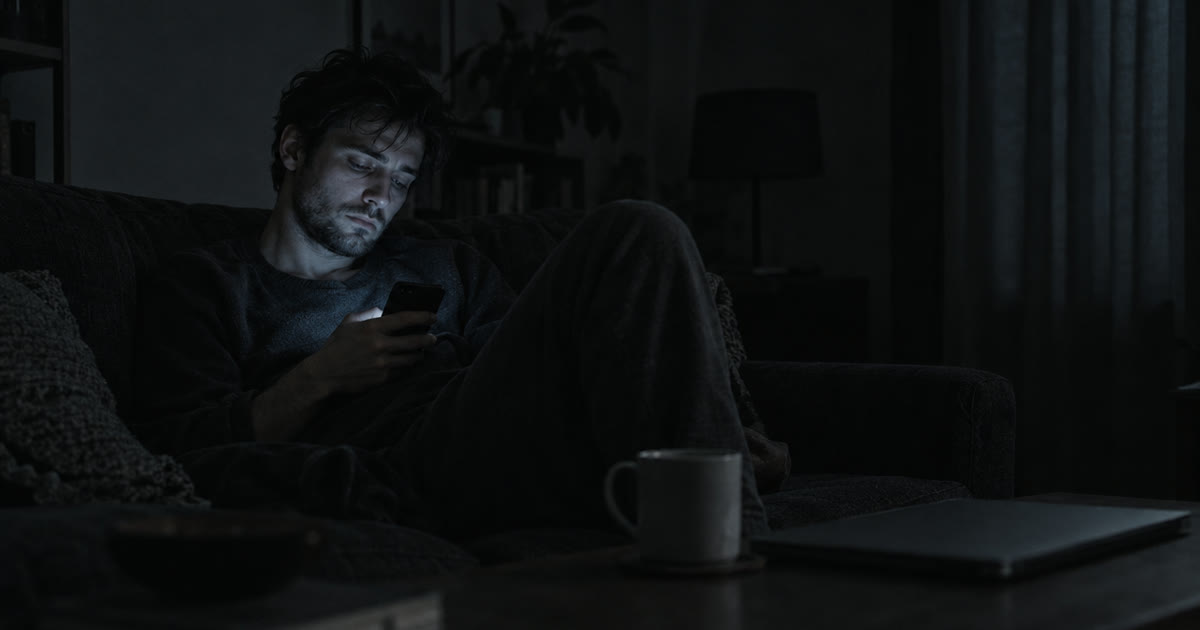
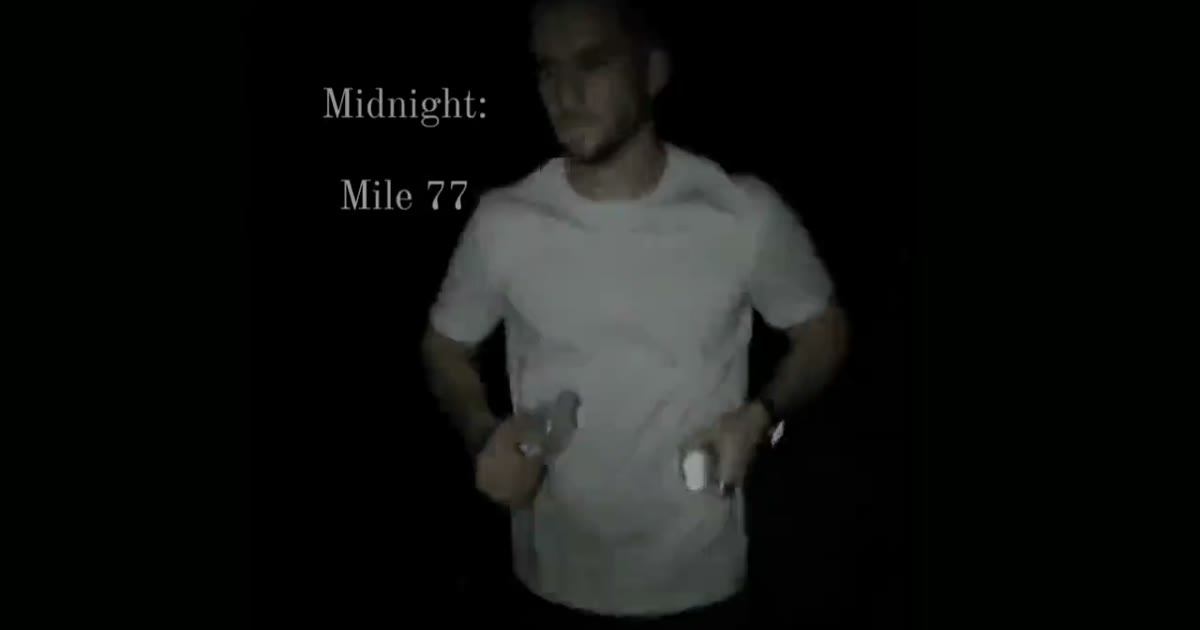
Workshop: dopamine as the problem, the loop, Brendan up front, real thumbnails
Generic generated images are gone. The problem section now says dopamine
is the problem, with the molecule drawn inline, and is followed by the
loop: sit down, reach for the phone, keep scrolling, put it off, repeat.
The four steps light in turn, and the one place the workshop steps in is
marked between 1 and 2 with the Off-Ramp's first move, close one exit.

Section labels are gone. "You do this" is "This is for you if". The
outcomes heading is "Your time is spent meaningfully."

Brendan's block is a still from his video with a play button and his
quote underneath, attributed "Brendan, client and good friend". No
header on it.

The episode cards carry the real YouTube thumbnails, self hosted, and a
still of Will from the episode 124 recording sits beside the podcast
heading. The feed script only refreshes the episode count now.

FAQ: dropped "What if I can't make that date?", added where it is (link
by email) and what to bring.

diff --git a/public/workshop/index.html b/public/workshop/index.html
@@ -88,6 +88,7 @@
   .btn-primary[disabled] { background: transparent; color: var(--faint); border-color: var(--border-strong); cursor: default; }
   .fine { font-size: 12px; color: var(--faint); line-height: 1.6; margin-top: 12px; max-width: 460px; }
 
+  .wrap > section:not(.hero) { margin-top: 64px; }
   .divider-lbl { color: var(--faint); font-size: 10px; letter-spacing: 0.2em; text-transform: uppercase; margin: 56px 0 28px; display: flex; align-items: center; gap: 12px; }
   .divider-lbl::before, .divider-lbl::after { content: ""; flex: 1; height: 1px; background: rgba(255, 255, 255, 0.09); }
 
@@ -250,7 +251,9 @@
   .rail { display: flex; gap: 12px; overflow-x: auto; scroll-snap-type: x mandatory; padding: 4px 0 16px; margin: 0 -20px; padding-left: 20px; padding-right: 20px; -webkit-overflow-scrolling: touch; scrollbar-width: thin; }
   .rail::-webkit-scrollbar { height: 6px; }
   .rail::-webkit-scrollbar-thumb { background: rgba(255,255,255,0.18); }
-  .ep { scroll-snap-align: start; flex: 0 0 230px; background: var(--surface); border: 1px solid var(--border); padding: 16px 16px 14px; text-decoration: none; display: flex; flex-direction: column; transition: border-color 140ms ease; }
+  .ep { scroll-snap-align: start; flex: 0 0 230px; background: var(--surface); border: 1px solid var(--border); padding: 0 0 14px; text-decoration: none; display: flex; flex-direction: column; transition: border-color 140ms ease; overflow: hidden; }
+  .ep .ep-img { width: 100%; aspect-ratio: 16 / 9; object-fit: cover; display: block; border-bottom: 1px solid var(--border); margin-bottom: 12px; }
+  .ep .ep-n, .ep .ep-t, .ep .ep-d { margin-left: 14px; margin-right: 14px; }
   .ep:hover { border-color: var(--accent); }
   .ep .ep-n { font-family: var(--font-display); font-weight: 900; font-size: 20px; color: var(--accent); line-height: 1; margin-bottom: 10px; }
   .ep .ep-t { font-size: 14px; font-weight: 600; color: #fff; line-height: 1.4; margin-bottom: 10px; flex: 1; }
@@ -263,6 +266,40 @@
   .quote { border: 1px solid var(--border); border-left: 2px solid var(--accent); background: var(--surface); padding: 20px 20px 18px; }
   .quote p { margin: 0; font-size: 14.5px; line-height: 1.65; color: var(--text); }
   .quote cite { display: block; margin-top: 12px; font-style: normal; font-size: 11px; letter-spacing: 0.14em; text-transform: uppercase; color: var(--faint); }
+
+  /* --- the molecule --- */
+  .mol { width: 100%; max-width: 300px; margin: 0 auto; display: block; }
+  .mol svg { width: 100%; height: auto; display: block; overflow: visible; }
+  .mol .cap { font-size: 11px; letter-spacing: 0.14em; text-transform: uppercase; color: var(--faint); text-align: center; margin-top: 10px; }
+
+  /* --- the loop: four steps lit in turn, and the one place the workshop steps in --- */
+  .loop { display: grid; grid-template-columns: 1fr; gap: 8px; align-items: center; margin-top: 30px; }
+  @media (min-width: 720px) { .loop { grid-template-columns: 1fr auto 1fr auto 1fr auto 1fr; gap: 10px; margin-top: 50px; } }
+  .lstep { position: relative; background: var(--surface); border: 1px solid var(--border); padding: 16px 14px; font-size: 14px; line-height: 1.4; color: var(--text); animation: lit 8s linear infinite; animation-delay: calc(var(--i) * 2s); }
+  .lstep .ln { display: block; font-family: var(--font-display); font-weight: 900; font-size: 20px; color: var(--accent); margin-bottom: 6px; line-height: 1; }
+  @keyframes lit { 0%, 22% { border-color: var(--accent); background: var(--accent-soft); } 26%, 100% { border-color: var(--border); background: var(--surface); } }
+  .larrow, .lcut { text-align: center; font-size: 22px; line-height: 1; color: var(--faint); position: relative; }
+  .larrow .h, .lcut .h { display: none; } .larrow .v, .lcut .v { display: inline; }
+  @media (min-width: 720px) { .larrow .h, .lcut .h { display: inline; } .larrow .v, .lcut .v { display: none; } }
+  .lcut { color: var(--accent); }
+  @media (min-width: 720px) { .lcut { align-self: stretch; display: flex; align-items: center; justify-content: center; } }
+  .lcut .lbl { display: block; font-size: 10px; letter-spacing: 0.14em; text-transform: uppercase; color: var(--accent); white-space: nowrap; margin-top: 4px; }
+  @media (min-width: 720px) { .lcut .lbl { position: absolute; left: 50%; transform: translateX(-50%); top: -26px; margin: 0; } }
+  .lback { text-align: center; font-size: 11px; letter-spacing: 0.14em; text-transform: uppercase; color: var(--faint); margin-top: 6px; }
+  @media (min-width: 720px) { .lback { grid-column: 1 / -1; } }
+  .lcall { max-width: 640px; margin: 22px auto 0; border: 1px solid rgba(71, 157, 194, 0.55); border-left: 3px solid var(--accent); background: var(--accent-soft); padding: 16px 18px; font-size: 14.5px; line-height: 1.65; color: var(--muted); }
+  .lcall b { color: #fff; font-weight: 600; }
+  @media (prefers-reduced-motion: reduce) { .lstep { animation: none; } .lstep[style*="--i:0"] { border-color: var(--accent); background: var(--accent-soft); } }
+
+  /* --- Brendan: the still, a play button, and the quote under it --- */
+  .testi-wrap { position: relative; max-width: 340px; margin: 0 auto; cursor: pointer; }
+  .play { position: absolute; inset: 0; margin: auto; width: 76px; height: 76px; border-radius: 50%; background: rgba(4, 11, 18, 0.62); border: 2px solid #fff; padding: 0; transition: transform 160ms ease, background 160ms ease; }
+  .play::after { content: ""; position: absolute; left: 50%; top: 50%; transform: translate(-38%, -50%); border-left: 24px solid #fff; border-top: 14px solid transparent; border-bottom: 14px solid transparent; }
+  .testi-wrap:hover .play { transform: scale(1.06); background: var(--accent); border-color: var(--accent); }
+  .testi-wrap.on .play { display: none; }
+  .bigq { max-width: 520px; margin: 22px auto 0; padding: 0; border: 0; text-align: center; }
+  .bigq p { margin: 0; font-family: var(--font-display); font-weight: 700; font-size: clamp(18px, 2.4vw, 22px); line-height: 1.45; color: #fff; }
+  .bigq cite { display: block; margin-top: 12px; font-style: normal; font-size: 11px; letter-spacing: 0.16em; text-transform: uppercase; color: var(--faint); }
 
 </style>
 
@@ -318,80 +355,113 @@ posthog.register({funnel_product: 'workshop_dopamine', funnel_page: 'landing'});
 </section>
 
 <!-- ================= THE PROBLEM ================= -->
-<div class="divider-lbl">The problem</div>
 <section class="with-img">
   <div>
-    <h2>Nothing you do feels like it counts.</h2>
-    <p class="body">You get through the day. Messages, the thing you watch, bed. None of it took anything out of you and none of it gave anything back.</p>
+    <h2>Dopamine is the problem.</h2>
+    <p class="body">It is the motivation molecule. It is what makes you want to do anything at all. And most of yours is being spent on things you never wanted to be motivated toward.</p>
   </div>
-  <img class="sect-img" src="img/morning.jpg" alt="A man sitting on the edge of his bed in the morning, staring at the floor" loading="lazy" />
+  <figure class="mol" aria-label="The dopamine molecule">
+    <svg viewBox="0 0 300 200" xmlns="http://www.w3.org/2000/svg" role="img" aria-label="Skeletal structure of dopamine: a benzene ring with two hydroxyl groups and an ethylamine chain">
+      <g fill="none" stroke="#479dc2" stroke-width="2.5" stroke-linecap="round" stroke-linejoin="round">
+        <polygon points="110,74 70,97 70,143 110,166 150,143 150,97"/>
+        <line x1="79" y1="103" x2="79" y2="137"/>
+        <line x1="106" y1="81" x2="79" y2="97" transform="translate(0,0)" opacity="0"/>
+        <line x1="116" y1="80" x2="143" y2="96" transform="translate(-5,6)"/>
+        <line x1="116" y1="160" x2="143" y2="144" transform="translate(-5,-6)"/>
+        <line x1="70" y1="97" x2="38" y2="79"/>
+        <line x1="70" y1="143" x2="38" y2="161"/>
+        <polyline points="150,97 190,74 230,97 270,74"/>
+      </g>
+      <g fill="#fff" font-family="'Space Grotesk',sans-serif" font-size="16" font-weight="600">
+        <text x="30" y="75" text-anchor="end">HO</text>
+        <text x="30" y="170" text-anchor="end">HO</text>
+        <text x="276" y="79">NH<tspan font-size="11" dy="4">2</tspan></text>
+      </g>
+    </svg>
+    <figcaption class="cap">Dopamine &middot; C<sub>8</sub>H<sub>11</sub>NO<sub>2</sub></figcaption>
+  </figure>
+</section>
+<section>
+  <h2 style="text-align:center">Here is what that looks like.</h2>
+  <div class="loop" aria-label="The loop: sit down, reach for phone, keep scrolling, put it off, repeat">
+    <div class="lstep" style="--i:0"><span class="ln">1</span>You sit down to do something</div>
+    <div class="lcut"><span class="h">&rarr;</span><span class="v">&darr;</span><span class="lbl">We step in here</span></div>
+    <div class="lstep" style="--i:1"><span class="ln">2</span>You reach for your phone</div>
+    <div class="larrow"><span class="h">&rarr;</span><span class="v">&darr;</span></div>
+    <div class="lstep" style="--i:2"><span class="ln">3</span>You keep scrolling</div>
+    <div class="larrow"><span class="h">&rarr;</span><span class="v">&darr;</span></div>
+    <div class="lstep" style="--i:3"><span class="ln">4</span>You put the task off</div>
+    <div class="lback">&#8635; Same thing tomorrow</div>
+  </div>
+  <div class="lcall"><b>The Dopamine Off-Ramp starts between 1 and 2.</b> Close one exit: one rule for where the phone lives, decided once, so it is out of reach when you sit down. The pull still shows up. It stops winning every time.</div>
 </section>
 
-<!-- ================= YOU DO THIS ================= -->
-<div class="divider-lbl">Be honest</div>
-<section class="with-img flip">
-  <div>
-    <h2>You do this.</h2>
-    <ul class="youdo">
-      <li>You open your phone to check one thing and look up forty minutes later.</li>
-      <li>There is something you have been "about to start" for over a year.</li>
-      <li>You are more tired after a day of doing nothing than after a day of work.</li>
-      <li>You know exactly what you would tell a friend to do. You do not do it.</li>
-      <li>You have deleted the apps before. They came back.</li>
-      <li>You say tomorrow, and you mean it every time.</li>
-    </ul>
-    <p class="body" style="margin-top:18px"><b>Sound familiar?</b></p>
-  </div>
-  <img class="sect-img" src="img/doing-nothing.jpg" alt="A man slumped on a couch in a dark room, lit only by his phone" loading="lazy" />
+<!-- ================= WHO THIS IS FOR ================= -->
+<section style="max-width:620px;margin:64px auto 0">
+  <h2>This is for you if</h2>
+  <ul class="youdo">
+    <li>You open your phone to check one thing and look up forty minutes later.</li>
+    <li>There is something you have been "about to start" for over a year.</li>
+    <li>You are more tired after a day of doing nothing than after a day of work.</li>
+    <li>You know exactly what you would tell a friend to do. You do not do it.</li>
+    <li>You have deleted the apps before. They came back.</li>
+    <li>You say tomorrow, and you mean it every time.</li>
+  </ul>
+  <p class="body" style="margin-top:18px"><b>Sound familiar?</b></p>
 </section>
 
 <!-- ================= WHERE YOU COULD BE ================= -->
-<div class="divider-lbl">Three months from now</div>
-<section class="with-img">
-  <div>
-    <h2>The day counted.</h2>
-    <ul class="checks">
-      <li>You start things without an hour of talking yourself into it</li>
-      <li>The phone stops deciding how your day goes</li>
-      <li>The things you said you would do this year are getting done</li>
-      <li>You go to bed knowing the day was yours</li>
-    </ul>
-    <div style="margin-top:26px"><button class="btn-primary js-buy" onclick="openReg('middle')">Save my spot</button></div>
-  </div>
-  <img class="sect-img" src="img/absorbed.jpg" alt="A man working at a desk at night, absorbed in what he is doing" loading="lazy" />
+<section class="centered">
+  <h2>Your time is spent meaningfully.</h2>
+  <ul class="checks" style="max-width:480px;margin:0 auto;text-align:left">
+    <li>You start things without an hour of talking yourself into it</li>
+    <li>The phone stops deciding how your day goes</li>
+    <li>The things you said you would do this year are getting done</li>
+    <li>You go to bed knowing the day was yours</li>
+  </ul>
+  <div style="margin-top:28px"><button class="btn-primary js-buy" onclick="openReg('middle')">Save my spot</button></div>
 </section>
 
 <!-- ================= PROOF ================= -->
-<div class="divider-lbl">Proof</div>
 <section class="centered">
-  <h2>Brendan, six weeks in.</h2>
-  <video class="testi" src="img/testimonial.mp4" poster="img/testimonial-poster.jpg" controls preload="none" playsinline></video>
+  <div class="testi-wrap" id="testi" onclick="playTesti()">
+    <video class="testi" src="img/testimonial.mp4" poster="img/testimonial-poster.jpg" preload="none" playsinline></video>
+    <button class="play" type="button" aria-label="Play Brendan's video"></button>
+  </div>
+  <blockquote class="bigq"><p>"He doesn't get upset with you or show any sort of frustration or judgment when you make a mistake. He says, okay, well, what can we do next?"</p><cite>Brendan, client and good friend</cite></blockquote>
 
-  <h2 style="margin-top:56px">I have been taking this apart in public every week for over two years.</h2>
-  <div class="pod-head">
+</section>
+<section class="with-img flip" style="margin-top:60px">
+  <div>
+    <h2>I have been taking this apart in public every week for over two years.</h2>
+    <div class="pod-head" style="justify-content:flex-start">
     <div class="pod-stat">123<span>Episodes</span></div>
     <div class="pod-stat">2024<span>Every week since</span></div>
     <div class="pod-stat">1:1<span>Clients each week</span></div>
   </div>
+  </div>
+  <img class="sect-img" src="img/will-podcast.jpg" alt="William recording The Willpower Podcast" loading="lazy" />
+</section>
+<section class="centered" style="margin-top:28px">
   <div class="rail" id="ep-rail">
-    <a class="ep" href="https://podcasters.spotify.com/pod/show/william-mulvaney/episodes/124--I-Did-a-10-Day-Silent-Retreat--Heres-What-Science-Says-About-Meditation-e3qsda0" target="_blank" rel="noopener"><div class="ep-n">#124</div><div class="ep-t">I Did a 10-Day Silent Retreat. Here's What Science Says About Meditation</div><div class="ep-d">Oct 2026</div></a>
-    <a class="ep" href="https://podcasters.spotify.com/pod/show/william-mulvaney/episodes/123--Science-Says-Your-Gratitude-List-Is-Wasting-Your-Time-e3qgf4b" target="_blank" rel="noopener"><div class="ep-n">#123</div><div class="ep-t">Science Says Your Gratitude List Is Wasting Your Time</div><div class="ep-d">Oct 2026</div></a>
-    <a class="ep" href="https://podcasters.spotify.com/pod/show/william-mulvaney/episodes/122--Stop-Quitting-with-this-Ancient-Japanese-Concept-e3q3h5u" target="_blank" rel="noopener"><div class="ep-n">#122</div><div class="ep-t">Stop Quitting with this Ancient Japanese Concept</div><div class="ep-d">Oct 2026</div></a>
-    <a class="ep" href="https://podcasters.spotify.com/pod/show/william-mulvaney/episodes/121--28-minutes-to-build-a-gym-routine-that-finally-sticks-e3pl22m" target="_blank" rel="noopener"><div class="ep-n">#121</div><div class="ep-t">28 minutes to build a gym routine that finally sticks</div><div class="ep-d">Sep 2026</div></a>
-    <a class="ep" href="https://podcasters.spotify.com/pod/show/william-mulvaney/episodes/120--Produce-like-the-greats--starting-with-10-minutes-today-e3p9prc" target="_blank" rel="noopener"><div class="ep-n">#120</div><div class="ep-t">Produce like the greats, starting with 10 minutes today</div><div class="ep-d">Sep 2026</div></a>
-    <a class="ep" href="https://podcasters.spotify.com/pod/show/william-mulvaney/episodes/118--The-secret-to-personal-growth-in-2026-e3ojroo" target="_blank" rel="noopener"><div class="ep-n">#118</div><div class="ep-t">The secret to "personal growth" in 2026</div><div class="ep-d">Sep 2026</div></a>
-    <a class="ep" href="https://podcasters.spotify.com/pod/show/william-mulvaney/episodes/114--Mental-Trojan-Horses-are-destroying-your-willpower--Heres-what-you-can-do-about-it-e3naodl" target="_blank" rel="noopener"><div class="ep-n">#114</div><div class="ep-t">Mental Trojan Horses are destroying your willpower</div><div class="ep-d">Aug 2026</div></a>
-    <a class="ep" href="https://podcasters.spotify.com/pod/show/william-mulvaney/episodes/111--If-your-motivation-comes-from-screens-and-stimulants--listen-to-this-e3mdgin" target="_blank" rel="noopener"><div class="ep-n">#111</div><div class="ep-t">If your motivation comes from screens and stimulants, listen to this</div><div class="ep-d">Jul 2026</div></a>
+    <a class="ep" href="https://podcasters.spotify.com/pod/show/william-mulvaney/episodes/124--I-Did-a-10-Day-Silent-Retreat--Heres-What-Science-Says-About-Meditation-e3qsda0" target="_blank" rel="noopener"><img class="ep-img" src="img/ep/124.jpg" alt="" loading="lazy" /><div class="ep-n">#124</div><div class="ep-t">I Did a 10-Day Silent Retreat. Here's What Science Says About Meditation</div><div class="ep-d">Oct 2026</div></a>
+    <a class="ep" href="https://podcasters.spotify.com/pod/show/william-mulvaney/episodes/123--Science-Says-Your-Gratitude-List-Is-Wasting-Your-Time-e3qgf4b" target="_blank" rel="noopener"><img class="ep-img" src="img/ep/123.jpg" alt="" loading="lazy" /><div class="ep-n">#123</div><div class="ep-t">Science Says Your Gratitude List Is Wasting Your Time</div><div class="ep-d">Oct 2026</div></a>
+    <a class="ep" href="https://podcasters.spotify.com/pod/show/william-mulvaney/episodes/122--Stop-Quitting-with-this-Ancient-Japanese-Concept-e3q3h5u" target="_blank" rel="noopener"><img class="ep-img" src="img/ep/122.jpg" alt="" loading="lazy" /><div class="ep-n">#122</div><div class="ep-t">Stop Quitting with this Ancient Japanese Concept</div><div class="ep-d">Oct 2026</div></a>
+    <a class="ep" href="https://podcasters.spotify.com/pod/show/william-mulvaney/episodes/121--28-minutes-to-build-a-gym-routine-that-finally-sticks-e3pl22m" target="_blank" rel="noopener"><img class="ep-img" src="img/ep/121.jpg" alt="" loading="lazy" /><div class="ep-n">#121</div><div class="ep-t">28 minutes to build a gym routine that finally sticks</div><div class="ep-d">Sep 2026</div></a>
+    <a class="ep" href="https://podcasters.spotify.com/pod/show/william-mulvaney/episodes/120--Produce-like-the-greats--starting-with-10-minutes-today-e3p9prc" target="_blank" rel="noopener"><img class="ep-img" src="img/ep/120.jpg" alt="" loading="lazy" /><div class="ep-n">#120</div><div class="ep-t">Produce like the greats, starting with 10 minutes today</div><div class="ep-d">Sep 2026</div></a>
+    <a class="ep" href="https://podcasters.spotify.com/pod/show/william-mulvaney/episodes/118--The-secret-to-personal-growth-in-2026-e3ojroo" target="_blank" rel="noopener"><img class="ep-img" src="img/ep/118.jpg" alt="" loading="lazy" /><div class="ep-n">#118</div><div class="ep-t">The secret to "personal growth" in 2026</div><div class="ep-d">Sep 2026</div></a>
+    <a class="ep" href="https://podcasters.spotify.com/pod/show/william-mulvaney/episodes/114--Mental-Trojan-Horses-are-destroying-your-willpower--Heres-what-you-can-do-about-it-e3naodl" target="_blank" rel="noopener"><img class="ep-img" src="img/ep/114.jpg" alt="" loading="lazy" /><div class="ep-n">#114</div><div class="ep-t">Mental Trojan Horses are destroying your willpower</div><div class="ep-d">Aug 2026</div></a>
+    <a class="ep" href="https://podcasters.spotify.com/pod/show/william-mulvaney/episodes/111--If-your-motivation-comes-from-screens-and-stimulants--listen-to-this-e3mdgin" target="_blank" rel="noopener"><img class="ep-img" src="img/ep/111.jpg" alt="" loading="lazy" /><div class="ep-n">#111</div><div class="ep-t">If your motivation comes from screens and stimulants, listen to this</div><div class="ep-d">Jul 2026</div></a>
   </div>
   <p class="rail-hint">Scroll for more &rarr;</p>
   <div style="margin-top:26px"><button class="btn-primary js-buy" onclick="openReg('proof')">Save my spot</button></div>
 </section>
 
 <!-- ================= FAQ ================= -->
-<div class="divider-lbl">FAQ</div>
-<section style="max-width:760px;margin:0 auto">
+<section style="max-width:760px;margin:64px auto 0">
   <details><summary>Is it actually free?</summary><div class="ans">Yes. No card, no obligation.</div></details>
-  <details><summary>What if I can't make that date?</summary><div class="ans">Reply to your confirmation email and I'll move you to the next session.</div></details>
+  <details><summary>Where is it?</summary><div class="ans">Online, live. The link is in your confirmation email the moment you register, and I send it again an hour before we start.</div></details>
+  <details><summary>Do I need to bring anything?</summary><div class="ans">A pen and paper. You will write down one thing before the hour is over.</div></details>
   <details><summary>How long is it?</summary><div class="ans">One hour, live, with time for questions at the end.</div></details>
   <details><summary>Do I have to be on camera?</summary><div class="ans">No. Plenty of guys just listen.</div></details>
 </section>
@@ -404,7 +474,6 @@ posthog.register({funnel_product: 'workshop_dopamine', funnel_page: 'landing'});
 </section>
 
 <!-- ================= ABOUT ================= -->
-<div class="divider-lbl">Who am I</div>
 <section class="about">
   <img src="img/spartan.jpg" alt="William Mulvaney at a Spartan race" loading="lazy" style="object-position:50% 20%" />
   <div>
@@ -553,6 +622,13 @@ function closeReg(reason) {
   if (!REGISTERED) cap('register_form_abandon', {where: REG_CTX.where, reason: reason || "closed"});
 }
 
+function playTesti() {
+  const w = document.getElementById("testi"); const v = w && w.querySelector("video");
+  if (!v) return;
+  w.classList.add("on"); v.controls = true; v.play();
+  cap('testimonial_play', {seconds_on_page: secondsOnPage()});
+}
+
 function toast(msg) {
   const t = document.getElementById("toast");
   t.textContent = msg; t.classList.add("show");
@@ -685,40 +761,16 @@ function toast(msg) {
     {threshold: 0}).observe(heroBtn);
 })();
 
-/* The eight cards in the rail are baked into the HTML so the section is never empty.
-   If the feed answers, they are swapped for whatever is actually newest, so the page
-   does not go stale between edits. Any failure leaves the baked-in cards alone. */
-(function podcastRail() {
-  const rail = document.getElementById("ep-rail");
-  if (!rail) return;
-  const MONTHS = ["Jan","Feb","Mar","Apr","May","Jun","Jul","Aug","Sep","Oct","Nov","Dec"];
+/* The cards are built by hand with YouTube thumbnails. The podcast feed only refreshes the
+   episode count, so the number stays right without an edit. */
+(function podcastCount() {
+  const stat = document.querySelector(".pod-stat");
+  if (!stat) return;
   fetch("https://anchor.fm/s/f40349c8/podcast/rss")
     .then((r) => r.text())
     .then((text) => {
-      const xml = new DOMParser().parseFromString(text, "application/xml");
-      const items = Array.from(xml.getElementsByTagName("item"));
-      if (items.length < 8) return;
-      const cards = items.slice(0, 8).map((it) => {
-        const title = (it.getElementsByTagName("title")[0] || {}).textContent || "";
-        const link = (it.getElementsByTagName("link")[0] || {}).textContent || "";
-        const d = new Date((it.getElementsByTagName("pubDate")[0] || {}).textContent || "");
-        /* Titles arrive as "#124 — Real title"; the number is its own element on the card. */
-        const m = title.match(/^#(\d+)\s*[—–-]\s*(.+)$/);
-        if (!m || !link) return null;
-        const a = document.createElement("a");
-        a.className = "ep"; a.href = link; a.target = "_blank"; a.rel = "noopener";
-        const n = document.createElement("div"); n.className = "ep-n"; n.textContent = "#" + m[1];
-        const t = document.createElement("div"); t.className = "ep-t"; t.textContent = m[2];
-        const dd = document.createElement("div"); dd.className = "ep-d";
-        dd.textContent = isNaN(d) ? "" : MONTHS[d.getMonth()] + " " + d.getFullYear();
-        a.appendChild(n); a.appendChild(t); a.appendChild(dd);
-        return a;
-      }).filter(Boolean);
-      if (cards.length < 8) return;
-      rail.textContent = "";
-      cards.forEach((c) => rail.appendChild(c));
-      const stat = document.querySelector(".pod-stat");
-      if (stat && items.length) stat.childNodes[0].nodeValue = String(items.length);
+      const n = new DOMParser().parseFromString(text, "application/xml").getElementsByTagName("item").length;
+      if (n >= 100) stat.childNodes[0].nodeValue = String(n);
     })
     .catch(() => {});
 })();
